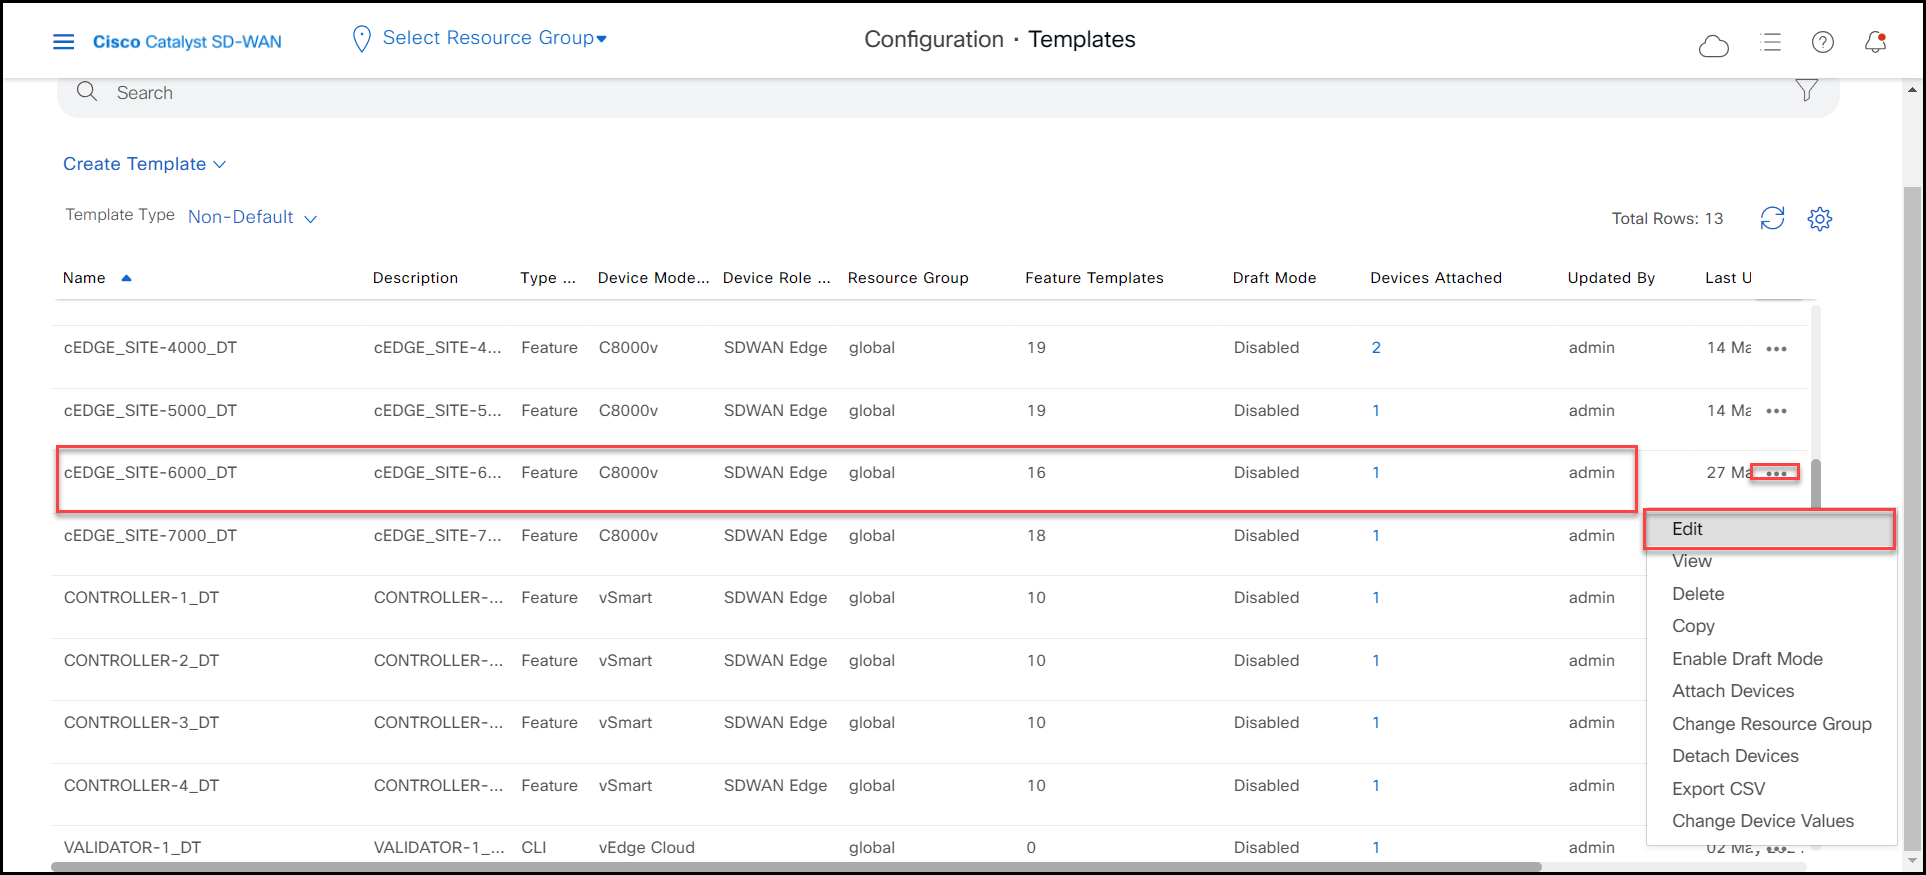
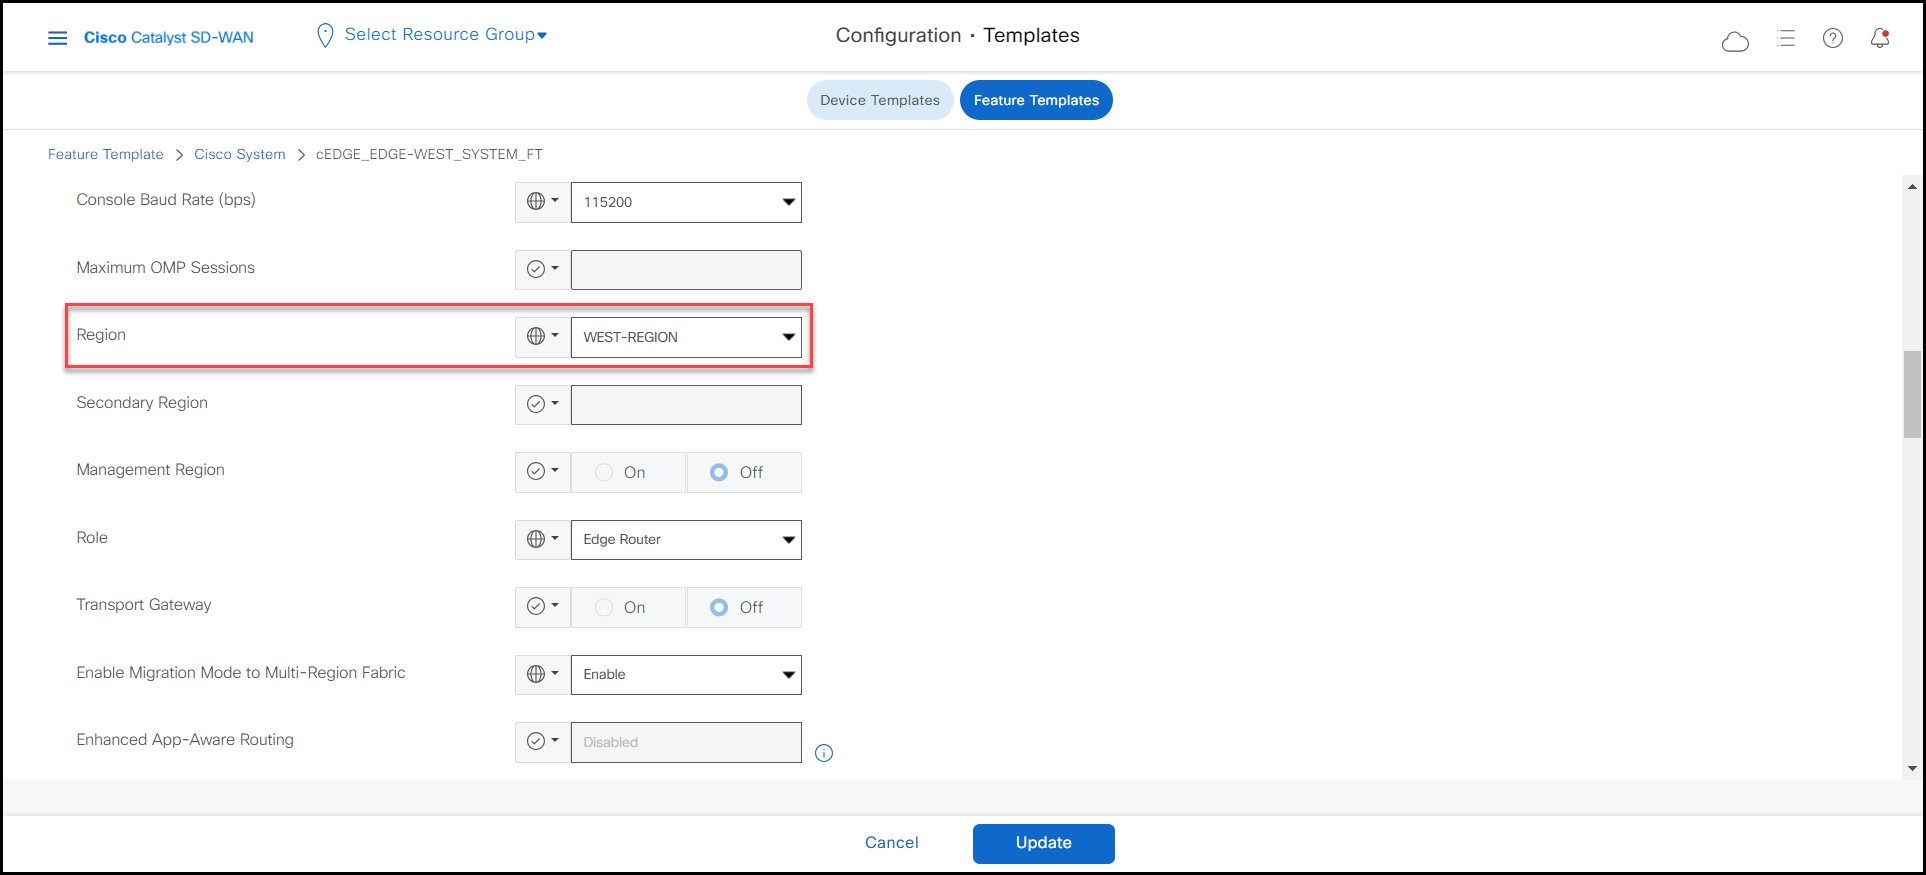
Deployed  with MkDocs version: 1.6.0

diff --git a/task5/index.html b/task5/index.html
@@ -61,6 +61,11 @@
     <label class="md-overlay" for="__drawer"></label>
     <div data-md-component="skip">
       
+        
+        <a href="#step-1-enable-region-on-west-edge-devices" class="md-skip">
+          Skip to content
+        </a>
+      
     </div>
     <div data-md-component="announce">
       
@@ -565,6 +570,17 @@
       
       
       
+        <label class="md-nav__link md-nav__link--active" for="__toc">
+          
+  
+  <span class="md-ellipsis">
+    Task 5 - Enable Region on Edge Routers
+  </span>
+  
+
+          <span class="md-nav__icon md-icon"></span>
+        </label>
+      
       <a href="./" class="md-nav__link md-nav__link--active">
         
   
@@ -574,6 +590,32 @@
   
 
       </a>
+      
+        
+
+<nav class="md-nav md-nav--secondary" aria-label="Table of contents">
+  
+  
+  
+  
+    <label class="md-nav__title" for="__toc">
+      <span class="md-nav__icon md-icon"></span>
+      Table of contents
+    </label>
+    <ul class="md-nav__list" data-md-component="toc" data-md-scrollfix>
+      
+        <li class="md-nav__item">
+  <a href="#step-1-enable-region-on-west-edge-devices" class="md-nav__link">
+    <span class="md-ellipsis">
+      Step 1: Enable Region on West Edge devices
+    </span>
+  </a>
+  
+</li>
+      
+    </ul>
+  
+</nav>
       
     </li>
   
@@ -668,6 +710,23 @@
   
   
   
+    <label class="md-nav__title" for="__toc">
+      <span class="md-nav__icon md-icon"></span>
+      Table of contents
+    </label>
+    <ul class="md-nav__list" data-md-component="toc" data-md-scrollfix>
+      
+        <li class="md-nav__item">
+  <a href="#step-1-enable-region-on-west-edge-devices" class="md-nav__link">
+    <span class="md-ellipsis">
+      Step 1: Enable Region on West Edge devices
+    </span>
+  </a>
+  
+</li>
+      
+    </ul>
+  
 </nav>
                   </div>
                 </div>
@@ -684,6 +743,17 @@
   <h1>Task 5 - Enable Region on Edge Routers</h1>
 
 <p>To add from word document task 10 </p>
+<p>In this task you will make the West and East routers Region-Aware</p>
+<h3 id="step-1-enable-region-on-west-edge-devices"><strong>Step 1: Enable Region on  West Edge devices</strong></h3>
+<p>Go to <strong>Configuration &gt; Templates &gt; Feature templates</strong> and look up for the <strong>cEDGE_EDGE-WEST_SYSTEM_FT</strong> feature template we created in task 3 and edit it.</p>
+<p><img alt="" src="../pic/task5-1-1.png" /></p>
+<p>Make Global on the ‘Region’ parameter to assign all devices attached to this feature template to the <strong>WEST-REGION</strong>. This will cause all devices in the West region to peer to the <strong>Controller-1 (1.1.1.3)</strong> that owns <strong>WEST-REGION (1)</strong>, keeping the peering with the default/flat <strong>Controller-4 (1.1.1.6)</strong> being used for Migration.</p>
+<p><img alt="" src="../pic/task5-1-2.png" /></p>
+<p>Click ‘Update’, then ‘Next’.</p>
+<p><img alt="" src="pic/task5-1-3.png" /></p>
+<p>Finally, click ‘Configure Devices’ to apply this change to all devices in the West Region. </p>
+<p>Now, let’s repeat the same process but now for the East Edge devices, therefore, go to <strong>Configuration &gt; Templates &gt; Feature templates</strong> and look up for the <strong>cEDGE_EDGE-EAST_SYSTEM_FT</strong> feature template and edit it.</p>
+<p><img alt="" src="../pic/task5-1-4.png" /></p>
 
 
 
